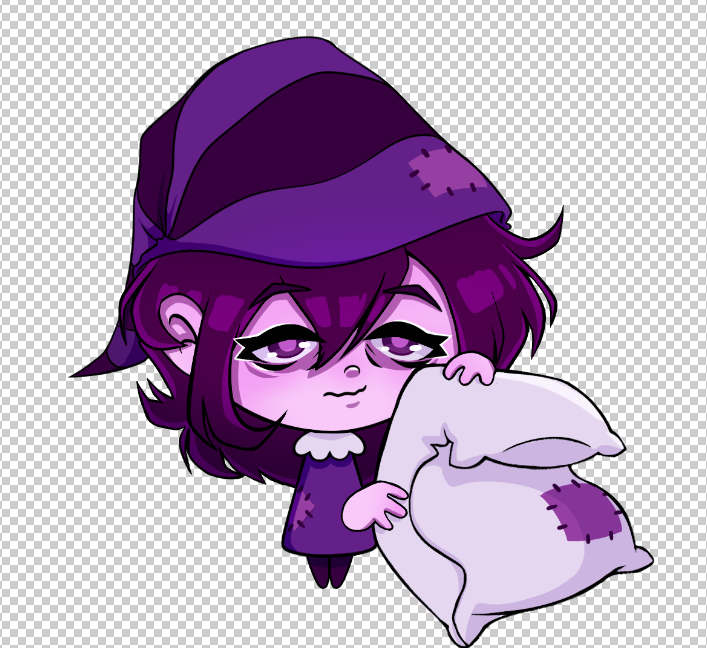
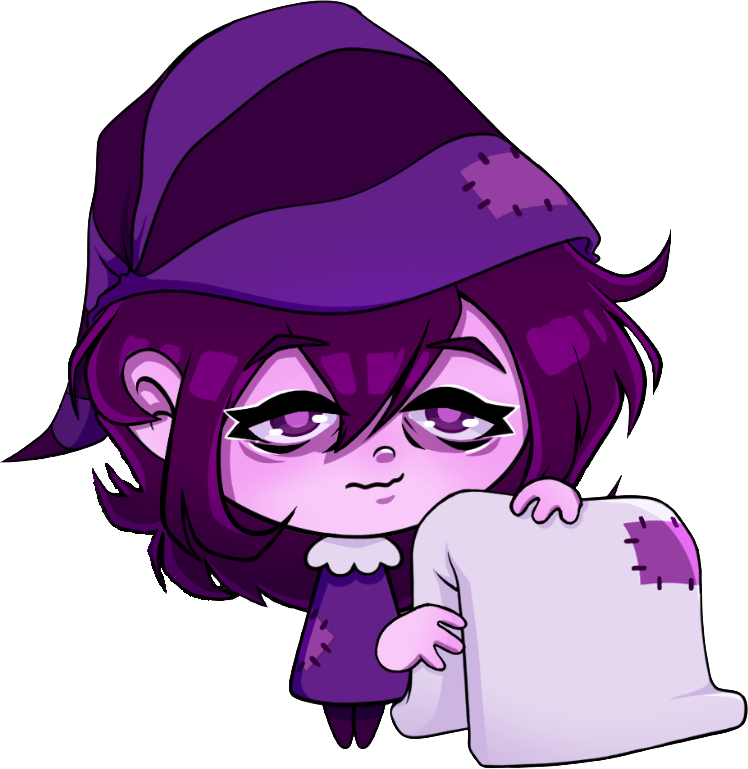
Add new hero "Sleeper" to the Confluent group
Introduced a new hero, "Sleeper", in both English and Finnish locales with corresponding images and descriptions. Updated the Confluent hero group initialization to include "Sleeper" alongside "SoulSisters".

diff --git a/frontend-next-migration/src/entities/Hero/model/initializeHeroGroups.ts b/frontend-next-migration/src/entities/Hero/model/initializeHeroGroups.ts
@@ -8,6 +8,7 @@ import graffittiGaya from '@/shared/assets/images/heros/graffitti-gaya/graffitti
 import graffittiGayaGif from '@/shared/assets/images/heros/graffitti-gaya/grafitti-gaya.gif';
 import purpleGirls from '@/shared/assets/images/heros/purple-girls/purple-girls.webp';
 import purpleGirlsGif from '@/shared/assets/images/heros/purple-girls/purple-girls-boxing.gif';
+import sleeper from '@/shared/assets/images/heros/sleeper/sleeper.webp';
 import conman from '@/shared/assets/images/heros/conman/conman.webp';
 import comingSoon from '@/shared/assets/images/heros/ComingSoon.webp';
 import red from '@/shared/assets/images/heros/textBgColors/red_cropped.webp';
@@ -50,6 +51,36 @@ export const initializeHeroGroups = (t: (key: string) => string): Record<HeroGro
             ],
         },
 
+        [HeroGroup.CONFLUENT]: {
+            name: t('CONFLUENT.name'),
+            description: t('CONFLUENT.description'),
+            bgColour: 'rgba(145, 4, 148, 0.5)',
+            label: purpleBg,
+            heroes: [
+                {
+                    id: 52231232,
+                    srcImg: purpleGirls,
+                    srcGif: purpleGirlsGif,
+                    alt: t('CONFLUENT.heroes.SoulSisters.alt'),
+                    altGif: t('CONFLUENT.heroes.SoulSisters.altGif'),
+                    slug: HeroSlug.SOUL_SISTERS,
+                    title: t('CONFLUENT.heroes.SoulSisters.title'),
+                    description: t('CONFLUENT.heroes.SoulSisters.description'),
+                },
+
+                {
+                    id: 3123,
+                    srcImg: sleeper,
+                    srcGif: comingSoon,
+                    alt: t('CONFLUENT.heroes.Sleeper.alt'),
+                    altGif: t('CONFLUENT.heroes.Sleeper.altGif'),
+                    slug: HeroSlug.SLEEPER,
+                    title: t('CONFLUENT.heroes.Sleeper.title'),
+                    description: t('CONFLUENT.heroes.Sleeper.description'),
+                },
+            ],
+        },
+
         [HeroGroup.PROJECTOR]: {
             name: t('PROJECTOR.name'),
             description: t('PROJECTOR.description'),
@@ -84,25 +115,6 @@ export const initializeHeroGroups = (t: (key: string) => string): Record<HeroGro
                     slug: HeroSlug.RESEARCHER,
                     title: t('INTELLECTUALIZER.heroes.Researcher.title'),
                     description: t('INTELLECTUALIZER.heroes.Researcher.description'),
-                },
-            ],
-        },
-
-        [HeroGroup.CONFLUENT]: {
-            name: t('CONFLUENT.name'),
-            description: t('CONFLUENT.description'),
-            bgColour: 'rgba(145, 4, 148, 0.5)',
-            label: purpleBg,
-            heroes: [
-                {
-                    id: 52231232,
-                    srcImg: purpleGirls,
-                    srcGif: purpleGirlsGif,
-                    alt: t('CONFLUENT.heroes.SoulSisters.alt'),
-                    altGif: t('CONFLUENT.heroes.SoulSisters.altGif'),
-                    slug: HeroSlug.SOUL_SISTERS,
-                    title: t('CONFLUENT.heroes.SoulSisters.title'),
-                    description: t('CONFLUENT.heroes.SoulSisters.description'),
                 },
             ],
         },

diff --git a/frontend-next-migration/src/entities/Hero/types/hero.ts b/frontend-next-migration/src/entities/Hero/types/hero.ts
@@ -18,6 +18,7 @@ export enum HeroSlug {
     PIRATE = 'pirate',
     SOUL_SISTERS = 'soul-sisters',
     CONMAN = 'conman',
+    SLEEPER = 'sleeper',
 }
 
 export interface Hero {
